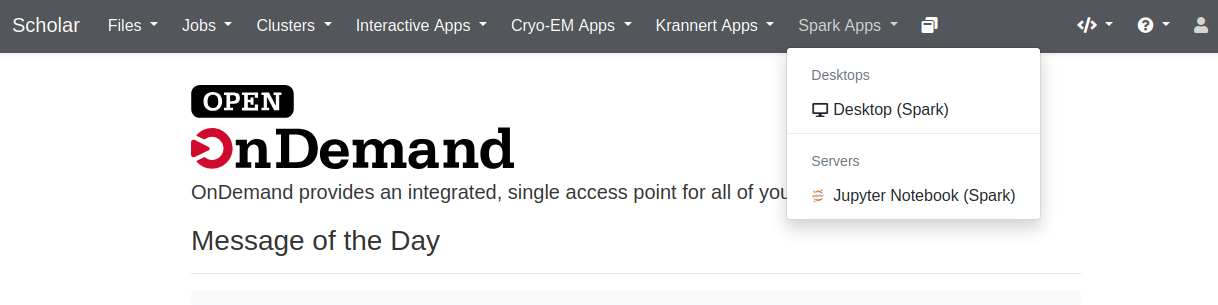
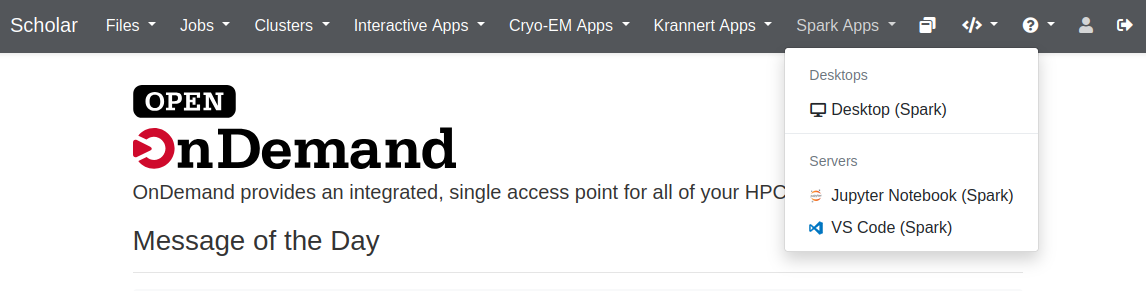
Added VS Code app

diff --git a/docs/userguides/scholar/scholar-spark.md b/docs/userguides/scholar/scholar-spark.md
@@ -71,7 +71,7 @@ Selecting any of these will bring you to a submission page to specify the accoun
 
     The Jupyter Notebook (Spark) will launch a Jupyter server on a spark node, which will be displayed in your browser. 
 
-    ![Screenshot of a Jypyter server running in-browser](../../assets/images/userguides/scholar/spark/spark_jupyter_1.png)
+    ![Screenshot of a Jupyter server running in-browser](../../assets/images/userguides/scholar/spark/spark_jupyter_1.png)
 
     The default kernels (Python, R, Julia) available on Jupyter Spark are all `aarch64` compatible. Users are also able to install their own kernels from conda environments via 
     ```bash linenums="0"
@@ -81,6 +81,14 @@ Selecting any of these will bring you to a submission page to specify the accoun
     or by building the conda environment via the `conda-env-mod` command. As with all applications on Spark nodes, please ensure that they are `aarch64` compatible.
 
     ![Screenshot of a Jupyter notebook showing that it is running on a Spark Node](../../assets/images/userguides/scholar/spark/spark_jupyter_2.png)
+    
+=== "VS Code (Spark)"
+
+    The VS Code (Spark) will launch a Visual Studio Code server on a spark node, which will be displayed in your browser. 
+
+    ![Screenshot of a VS Code server running in-browser](../../assets/images/userguides/scholar/spark/spark_vscode.png)
+
+    This can be useful for on-cluster development and code management.
 
 ---
 
@@ -315,8 +323,6 @@ case "$arch" in
         echo "Unknown Arch ${arch}"
         ;;
 esac
-
-
 ```
 
 [**Back to Scholar Cluster Overview**](./index.md)
